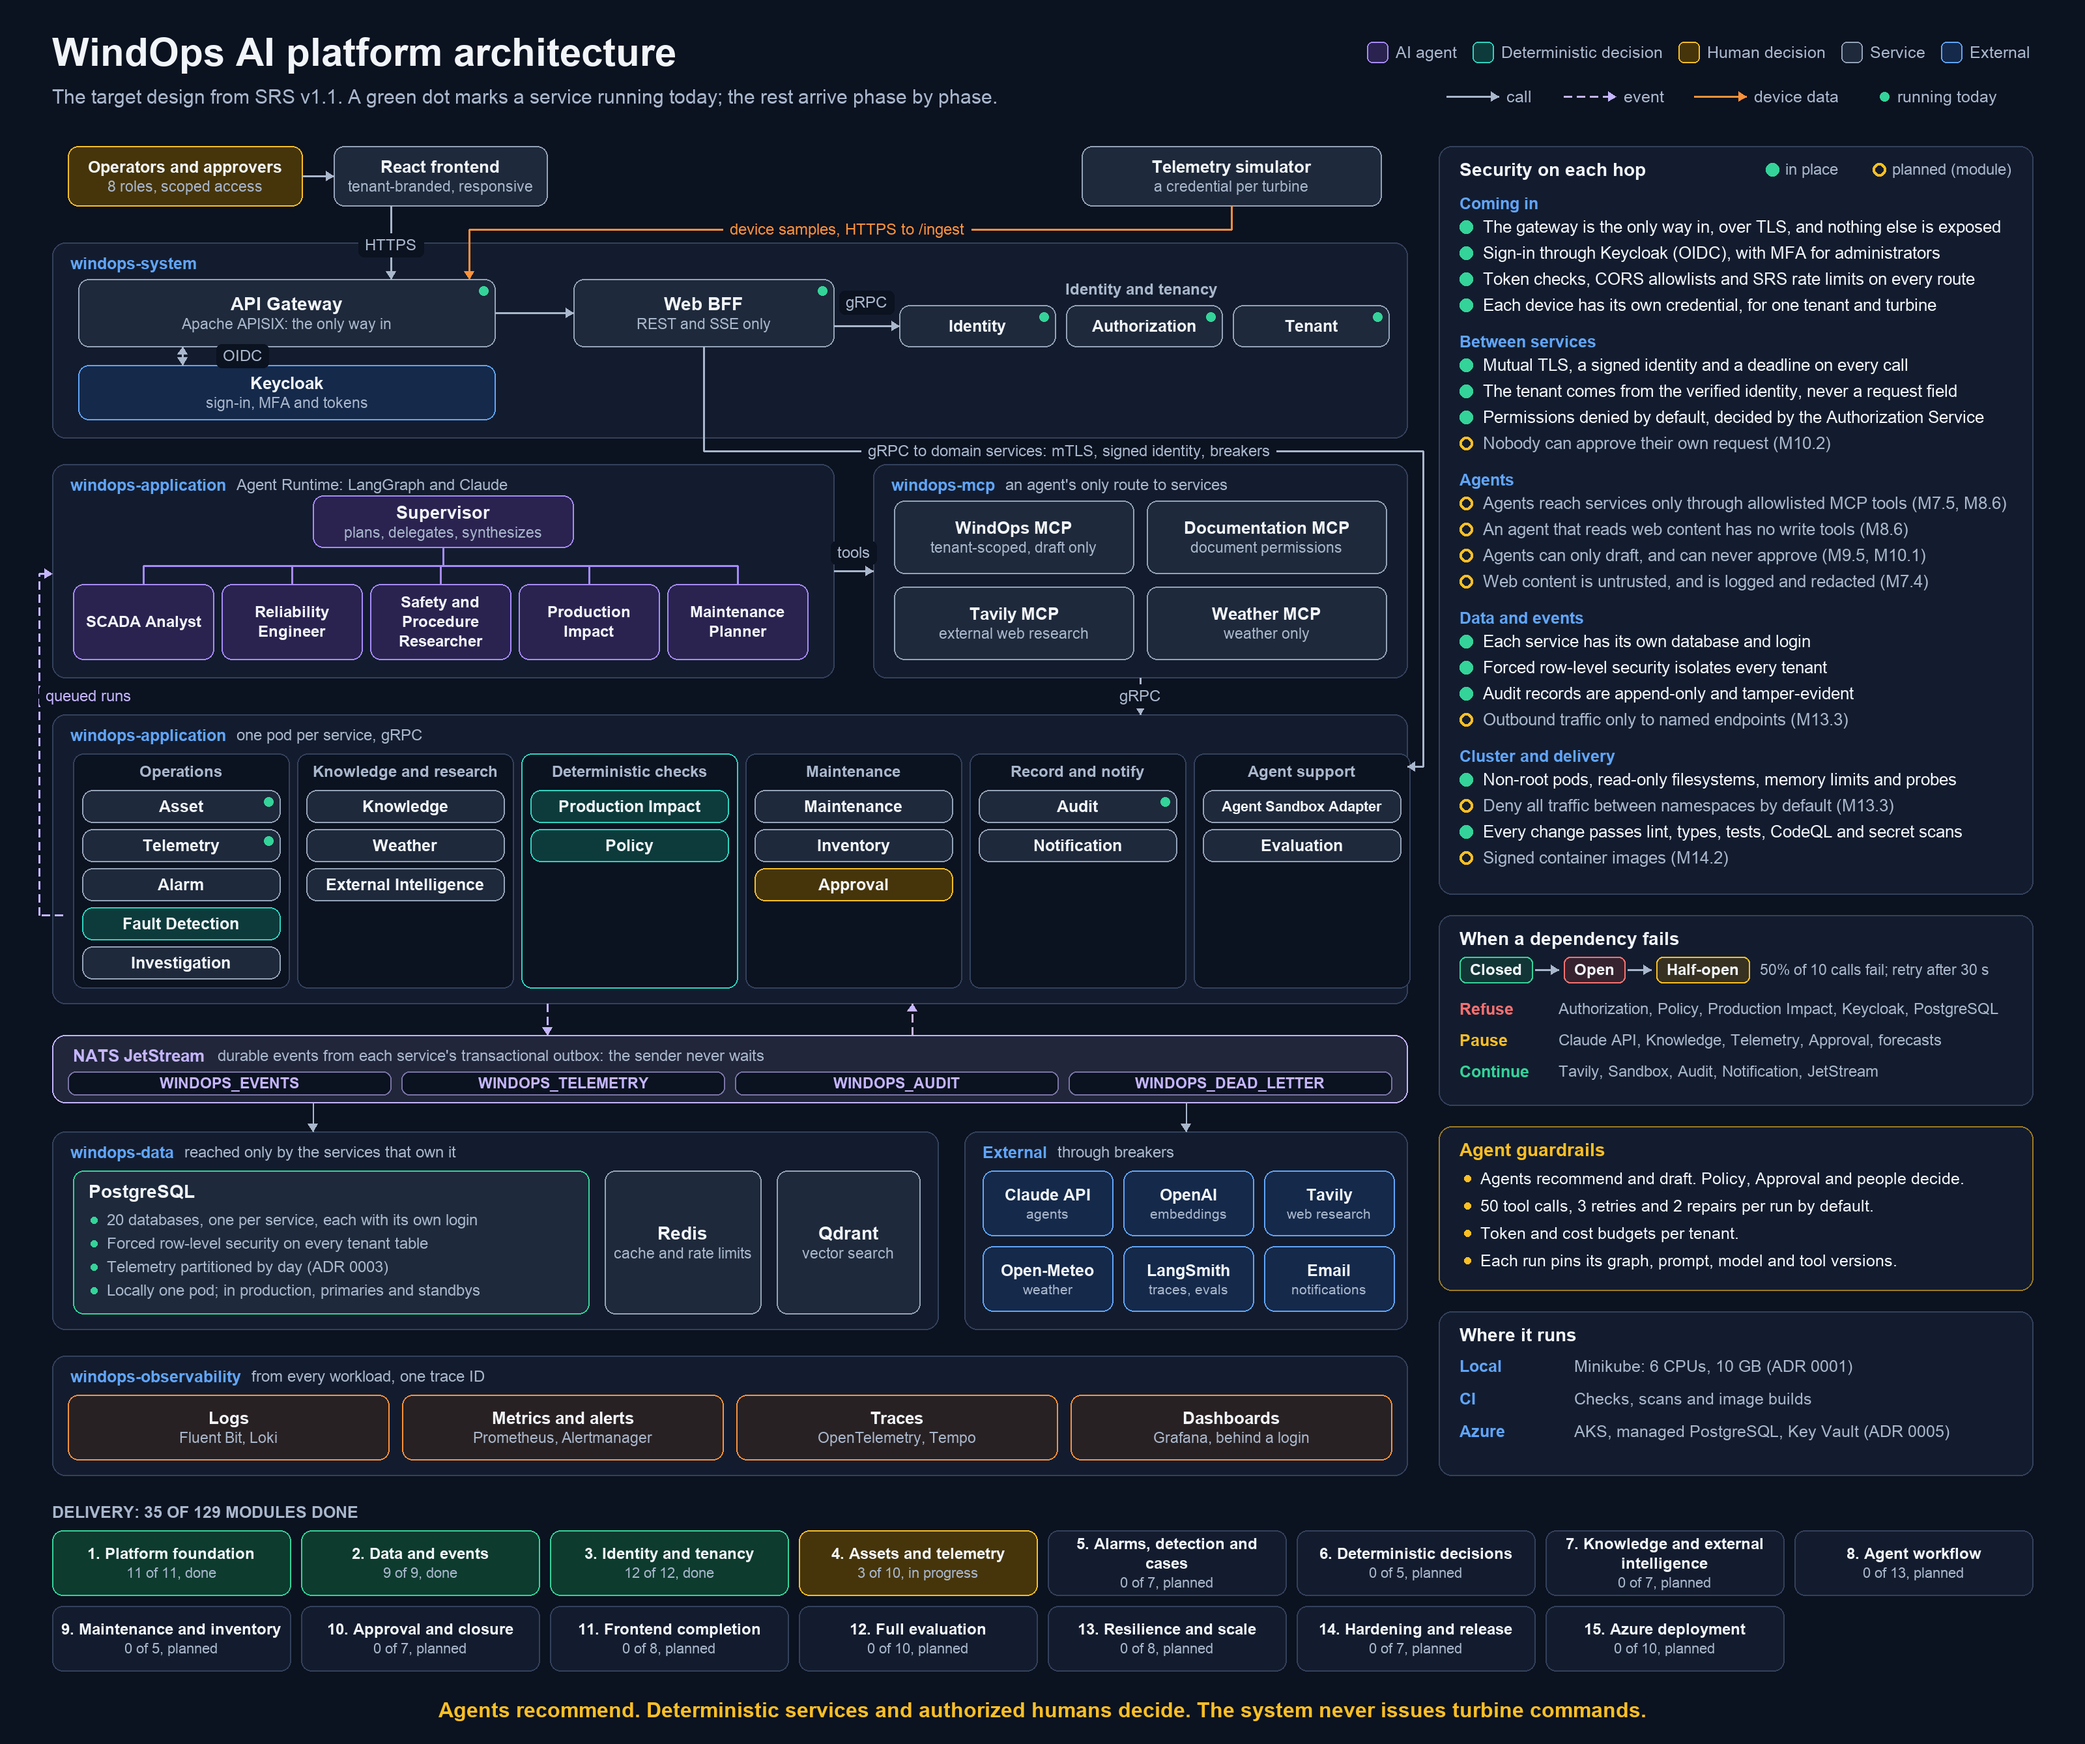
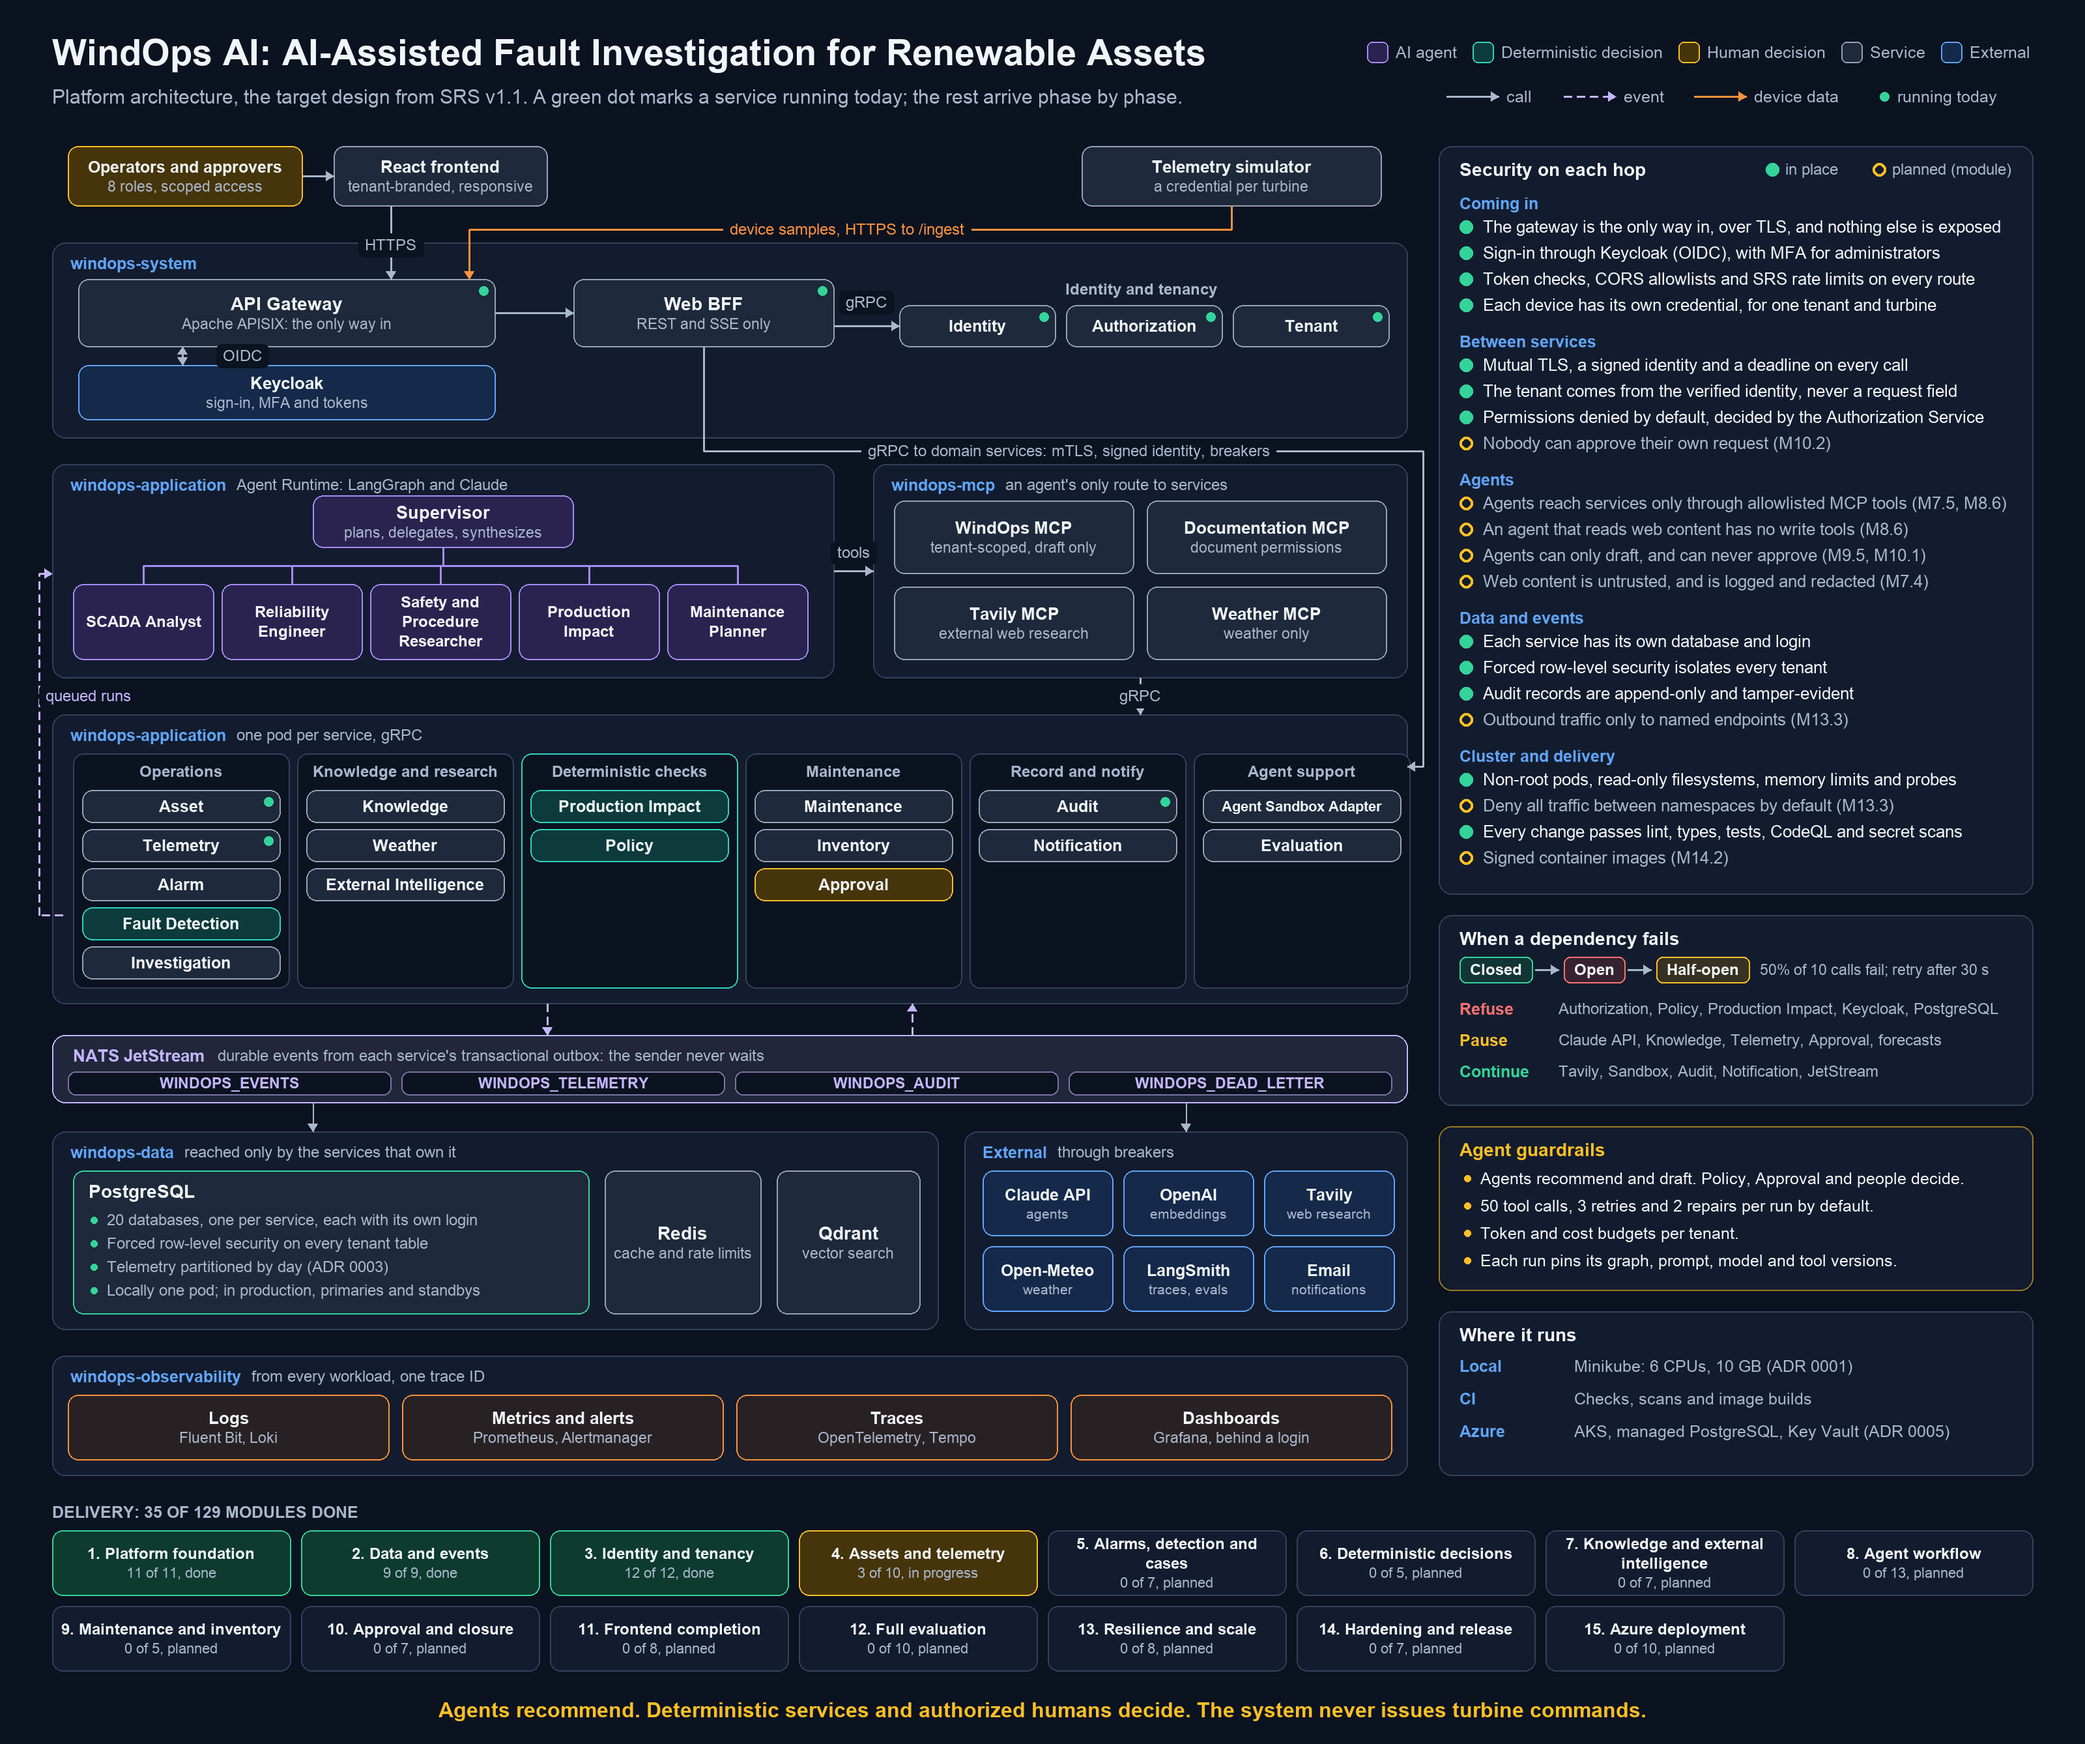
docs(readme): title the project AI-Assisted Fault Investigation for Renewable Assets (#62)
Only the README and its diagram change. Package, service and cluster names
keep windops.

Changed region(s): [[0.0312, 0.0, 0.5625, 0.062]]

diff --git a/scripts/generate/readme_visuals.py b/scripts/generate/readme_visuals.py
@@ -692,11 +692,11 @@ def draw_roadmap(c: Canvas, y: float, x0: float, x1: float) -> float:
 
 def build_platform_architecture() -> None:
     c = Canvas(1600, 1480)
-    c.text(40, 40, "WindOps AI platform architecture", 30, True)
+    c.text(40, 40, "WindOps AI: AI-Assisted Fault Investigation for Renewable Assets", 28, True)
     c.text(
         40, 74,
-        "The target design from SRS v1.1. A green dot marks a service running today; "
-        "the rest arrive phase by phase.",
+        "Platform architecture, the target design from SRS v1.1. A green dot marks a service "
+        "running today; the rest arrive phase by phase.",
         15, color=MUTED,
     )  # fmt: skip
     legend = (

diff --git a/README.md b/README.md
@@ -1,11 +1,11 @@
-# WindOps AI
+# WindOps AI: AI-Assisted Fault Investigation for Renewable Assets
 
 [![CI](https://github.com/wasif1024/windops-ai/actions/workflows/ci.yml/badge.svg)](https://github.com/wasif1024/windops-ai/actions/workflows/ci.yml)
 [![CodeQL](https://github.com/wasif1024/windops-ai/actions/workflows/codeql.yml/badge.svg)](https://github.com/wasif1024/windops-ai/actions/workflows/codeql.yml)
 
-**Agentic AI for wind farm operations and predictive maintenance.** WindOps AI investigates turbine faults and
-prepares maintenance work for multi-tenant wind farm operators. AI agents interpret operational complexity,
-deterministic services enforce the rules that matter, and authorized people approve every high-impact action.
+**Agentic AI that investigates equipment faults and prepares maintenance for renewable energy operators,
+built first for wind farms.** AI agents interpret operational complexity, deterministic services enforce the rules
+that matter, and authorized people approve every high-impact action, for each tenant separately.
 
 The platform is advisory only: it never issues turbine commands. It is a portfolio-grade reference system, built
 to production standards and run on synthetic data from a seeded, physics-based turbine simulator.
@@ -49,7 +49,7 @@ animation illustrates the specified workflow, not a recording.
 
 ## Architecture
 
-[![WindOps AI platform architecture. Operators reach the React frontend, and the telemetry simulator sends device samples, both over HTTPS through the APISIX API Gateway, which checks sign-in with Keycloak. In the windops-system namespace, Web BFF calls the Identity, Authorization and Tenant services over gRPC. In windops-application, the Agent Runtime runs a Supervisor and five specialist agents, which reach services only through four MCP servers in windops-mcp. Twenty domain services, grouped by capability, call each other over gRPC with mutual TLS, a signed identity and circuit breakers, and publish durable events to four NATS JetStream streams. Each service owns its PostgreSQL database with row-level security, alongside Redis and Qdrant in windops-data, and external providers are reached through breakers. Every workload sends logs, metrics and traces to the observability stack. A side column lists the security controls on each hop, in place or planned with their module, the circuit breaker's states and failure behaviors, the agent guardrails and where the system runs. A strip shows delivery progress across all 15 phases.](docs/assets/platform-architecture.png)](docs/assets/platform-architecture.png)
+[![WindOps AI platform architecture: AI-assisted fault investigation for renewable assets. Operators reach the React frontend, and the telemetry simulator sends device samples, both over HTTPS through the APISIX API Gateway, which checks sign-in with Keycloak. In the windops-system namespace, Web BFF calls the Identity, Authorization and Tenant services over gRPC. In windops-application, the Agent Runtime runs a Supervisor and five specialist agents, which reach services only through four MCP servers in windops-mcp. Twenty domain services, grouped by capability, call each other over gRPC with mutual TLS, a signed identity and circuit breakers, and publish durable events to four NATS JetStream streams. Each service owns its PostgreSQL database with row-level security, alongside Redis and Qdrant in windops-data, and external providers are reached through breakers. Every workload sends logs, metrics and traces to the observability stack. A side column lists the security controls on each hop, in place or planned with their module, the circuit breaker's states and failure behaviors, the agent guardrails and where the system runs. A strip shows delivery progress across all 15 phases.](docs/assets/platform-architecture.png)](docs/assets/platform-architecture.png)
 
 <sub>Select the diagram to view it full size. A green dot marks a service running today. Security controls marked
 planned name the module that delivers them; tests fail if a control is still shown as planned once its modules are
